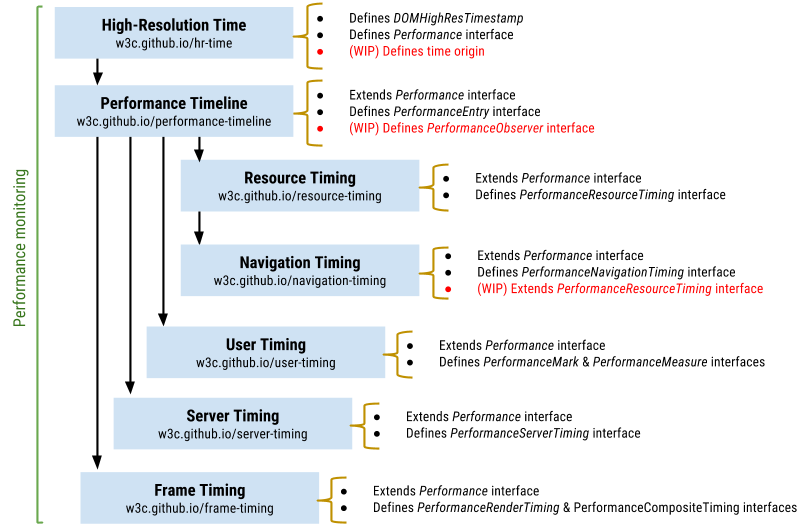
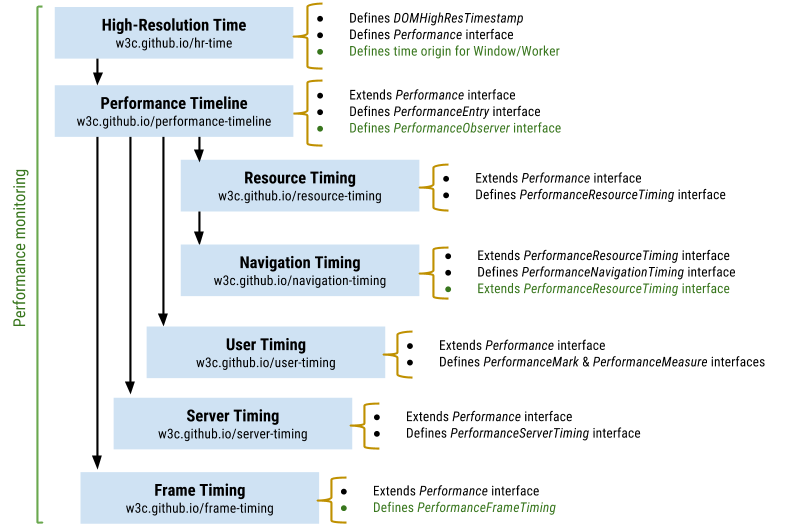
Addressed feedback from the TPAC f2f meeting

diff --git a/index.html b/index.html
@@ -9,11 +9,12 @@
           shortName:  "perf-timing-primer",
           editors: [
             {
-              name:       "A list of contributors in GitHub",
-              url:        "https://github.com/w3c/somerepo"
+              name:       "Xiaoqian Wu",
+              mailto:      "xiaoqian@w3.org",
+              company:    "W3C"
             }
           ],
-          edDraftURI:   "TBD",
+          edDraftURI:   "http://siusin.github.io/perf-timing-primer/",
           wg:           "Web Performance Working Group",
           wgURI:        "http://www.w3.org/2010/webperf/",
           wgPublicList: "public-web-perf",
@@ -26,33 +27,61 @@
 
     <section id='abstract'>
       <p>
-        This document describes the basic concepts of a various set of Web Performance Timeline related specifications, including [[PERFORMANCE-TIMELINE-2]], [[HR-TIME-2]], [[NAVIGATION-TIMING-2]], [[RESOURCE-TIMING]], [[USER-TIMING]], [[SERVER-TIMING]], and provide a clear idea how these APIs fit together.
+        This document introduces the basic concepts of various Web performance timing specifications, including [[PERFORMANCE-TIMELINE-2]], [[HR-TIME-2]], [[NAVIGATION-TIMING-2]], [[RESOURCE-TIMING]], [[USER-TIMING]], [[FRAME-TIMING]], [[SERVER-TIMING]], and explains how these APIs fit together.
       </p>
     </section>
 
     <section id='sotd'>
       <p>
-        This document is a collaboration of the <a href="http://www.w3.org/2010/webperf/">W3C Web Performance Working Group</a>. Most use cases in this document are originated from the working group's past discussion <a href="https://lists.w3.org/Archives/Public/public-web-perf/">achieved</a> in their mailing list.
+        This document is a collaboration of the <a href="http://www.w3.org/2010/webperf/">W3C Web Performance Working Group</a>. Most use cases in this document are originated from the working group's past discussion, which was <a href="https://lists.w3.org/Archives/Public/public-web-perf/">achieved</a> in the group's mailing list <a href="mailto:public-web-perf-request@w3.org?subject=subscribe">public-web-perf@w3.org</a> and <a href="http://www.w3.org/2010/webperf/">GitHub Repos</a>.
       </p>
     </section>
 
     <section>
       <h2>Overview</h2>
       <p>
-        Image you're visiting the W3C website, if the web content doesn't show up in the screeen within a certain seconds, as users, you might just close the tab and head to alternatives, but as developers, you might wish to trace the hints in the requests and timing details so that you can find out what's slowing down the webpage.
-        </p>
-        <p>
-        Luckily, most browser vendors are willing to expose these performance characteristics via a set of performance APIs. With these convenient features, developers can better identify the bottlenecks of the web applications and serve the faster web applications.
+        Image you're visiting the W3C website, if the web content doesn't show up in the screeen within certain seconds, as users, you may just close the tab and head to alternatives, but as developers, you will hope to trace the hints in the requests and navigation details, so that you can find out what's slowing down your webpage.
       </p>
-      <figure id="fig1">
-        <img alt="network data for w3.org" src="./images/w3-org-network-timing.png" class="graph" style="width: 70%">
-        <figcaption><span class="fig-title">A Waterfall Chart for w3.org</span></figcaption>
+      <p>
+        Fortunately, most browser vendors are willing to expose performance characteristics for developers to collect accurate  performance details. These performance timing APIs, as you can see from their names, are very helpful to identify the bottlenecks of the web applications from different aspects and improve the performance.
+      </p>
+      <figure style="margin:10px 0" id="fig1">
+        <div id="waterfall-div" style="border: 2px solid rgb(0, 0, 0); position: relative; top: 0px; left: 0px; z-index: 99999; margin: 0px; padding: 0px; background: rgb(255, 255, 255); width: 1180px">
+        <svg viewBox="1180 72" width="1180" height="72"><text x="100" y="0" dx="0" dy="10" style="font: 10px sans-serif;" text-anchor="middle">0</text><line x1="100" y1="12" x2="100" y2="72" style="stroke: #ccc;"></line><text x="614.2556448524249" y="0" dx="0" dy="10" style="font: 10px sans-serif;" text-anchor="middle">1</text><line x1="614.2556448524249" y1="12" x2="614.2556448524249" y2="72" style="stroke: #ccc;"></line><text x="1128.5112897048498" y="0" dx="0" dy="10" style="font: 10px sans-serif;" text-anchor="middle">2</text><line x1="1128.5112897048498" y1="12" x2="1128.5112897048498" y2="72" style="stroke: #ccc;"></line><g transform="translate(0,12)"><text x="5" y="0" dx="0" dy="10" style="font: 10px sans-serif;" text-anchor="start">/TR/resource-timing/</text><g transform="translate(200, 0)"><title>{
+          "duration": "869.0",
+          "tcpDuration": "441.0",
+          "requestDuration": "423.0",
+          "responseDuration": "3.0"
+        }</title>
+        <rect x="-100" y="0" width="446.88815537675725" height="10" style="fill:rgb(204, 204, 204)"></rect><rect x="1.0285112897048498" y="0" width="226.7867393799194" height="10" style="fill:rgb(255, 157, 66)"></rect><rect x="227.81525066962425" y="0" width="217.53013777257573" height="10" style="fill:rgb(64, 255, 64)"></rect>
+        <rect x="345.3453884422" y="0" width="1.5427669345572748" height="10" style="fill:rgb(52, 150, 255)"></rect></g></g><g transform="translate(0,24)"><text x="5" y="0" dx="0" dy="10" style="font: 10px sans-serif;" text-anchor="start">/StyleSheets/TR/W3C-WD</text><g transform="translate(200, 0)"><title>{
+          "start": "886.2",
+          "duration": "801.5"
+        }</title>
+        <rect x="355.7498086473669" y="0" width="412.1645857256619" height="10" style="fill:rgb(204, 204, 204)"></rect></g></g><g transform="translate(0,36)"><text x="5" y="0" dx="0" dy="10" style="font: 10px sans-serif;" text-anchor="start">/Icons/w3c_home</text><g transform="translate(200, 0)"><title>{
+          "start": "893.9",
+          "duration": "796.6"
+        }</title>
+        <rect x="359.6936351870787" y="0" width="409.680730962034" height="10" style="fill:rgb(204, 204, 204)"></rect></g></g><g transform="translate(0,48)"><text x="5" y="0" dx="0" dy="10" style="font: 10px sans-serif;" text-anchor="start">/TR/reso ... view-1.png</text><g transform="translate(200, 0)"><title>{
+          "start": "899.4",
+          "duration": "1189.1",
+          "requestDuration": "396.2",
+          "responseDuration": "1.0"
+        }</title>
+        <rect x="362.5338691135019" y="0" width="611.4875023923129" height="10" style="fill:rgb(204, 204, 204)"></rect><rect x="769.7544010720962" y="0" width="203.75888585671794" height="10" style="fill:rgb(64, 255, 64)"></rect><rect x="973.513286928814" y="0" width="0.5080845770006875" height="10" style="fill:rgb(52, 150, 255)"></rect></g></g><g transform="translate(0,60)"><text x="5" y="0" dx="0" dy="10" style="font: 10px sans-serif;" text-anchor="start">/StyleS ... TR/logo-WD</text><g transform="translate(200, 0)"><title>{
+          "start": "1695.6",
+          "duration": "394.8"
+        }</title>
+        <rect x="871.9621005544924" y="0" width="203.03789944550752" height="10" style="fill:rgb(204, 204, 204)"></rect></g></g></svg>
+      </div>
+        <figcaption style="margin: 10px auto"><span class="fig-title">A Waterfall Chart generated with <a href="https://github.com/andydavies/waterfall">Page Load Waterfalls</a>, which is using the Resource Timing API</span></figcaption>
       </figure>
+      <p>Waterfall charts may be the first tool you'll think of when trying to understand the performace of your web applications. Have you ever wonder about the magic behind these graphic charts? In the following sections, we are going to explain a set of performance monitoring APIs that allow you to do more than a waterfall chart measurement.</p>
     </section>
 
     <section>
       <h2>Resource Timing</h2>
-      <p><a href="#fig1">Fig.1</a> uses a waterfall chart to illustrate the detailed network timing data for each loaded resource, with the <a href="http://www.w3.org/TR/resource-timing">Resource Timing API</a>.</p>
+      <p><a href="#fig1">Fig.1</a> is a waterfall chart for the timing data for each loaded resource of a simple webpage. Actually, the [[Resource Timing]] API</a> can provide much more detail information than this. <a href="#fig2">Fig.2</a> is a set of <a href="https://w3c.github.io/resource-timing/#attributes">attributes</a> that developers are able to access for each loaded resource on their Web applications.</p>
       <figure id="fig2">
       <img style="width:85%" src="./images/resource-timing-overview-1.png" alt="Resource Timing attributes">
       <figcaption><span class="fig-title">Resource Timing attributes</span></figcaption>
@@ -60,27 +89,14 @@
 
       <section>
         <h2>Load Times for Resources</h2>
-        <p>Web Applications are mostly consist by a set of downloadable resources. By resource, we usually mean the HTML elements, the XHR objects, and link with the link type of stylesheet or SVG elements.</p>
+        <p>Web Applications are mostly consist by a set of downloadable resources. By resource, we usually mean the HTML elements, the XHR objects, and link with the link type of stylesheet (i.e. CSS) or SVG elements.</p>
         <p>The Resources timing data are exposed as methods on the global <code>window.performance</code> object we are going to talk about in the next section. You're encourage to use <code>performance.getEntriesByType("resource")</code> method to obtain an array of Resource Timing Objects for each requested resource.</p>
       <figure id="fig3">
         <img style="width:30%" src="./images/resource-timing-detail-w3-org.png" alt="Demo of Resource Timing Details">
         <figcaption><span class="fig-title">Demo of Resource Timing Details</span></figcaption>
       </figure>
       <p>Here, the <code>PerformanceResourceTiming</code> interface extends the <code>PerformanceEntry</code> interface in the <a href="#performance-timeline">Performance Timeline</a>. The duration attribute in Resource Timing can by measured as the difference between responseEnd and startTime.</p>
-      <p>As indicated in <a href="#fig2">Fig.2</a> and <a href="#fig3">Fig.3</a>, you are able to access a set of critical network timing information for each resource on the page: 
-      <dl>
-        <dt><code><a href="http://www.w3.org/TR/resource-timing/#widl-PerformanceResourceTiming-workerStart">workerStart</a></code></dt><dd>If the current browsing or worker context's have an active worker, or if the worker is available.</dd>
-        <dt><code><a href="http://www.w3.org/TR/#widl-PerformanceResourceTiming-redirectStart">redirectStart</a></code> / <code><a href="http://www.w3.org/TR/resource-timing/#widl-PerformanceResourceTiming-redirectEnd">redirectEnd</a></code></dt><dd>If there are HTTP redirects or equivalent when fetching the resource and if all the redirects or equivalent are from the same origin as the current document.</dd>
-        <dt><code><a href="http://www.w3.org/TR//resource-timing/#widl-PerformanceResourceTiming-fetchStart">fetchStart</a></code></dt><dd>If there are no HTTP redirects or equivalent.</dd>
-        <dt><code><a href="http://www.w3.org/TR/resource-timing/#widl-PerformanceResourceTiming-domainLookupStart">domainLookupStart</a></code> / <code><a href="http://www.w3.org/TR/resource-timing/#widl-PerformanceResourceTiming-domainLookupEnd">domainLookupEnd</a></code></dt>
-        <dd>The time before / immediately after the user agent finishes the domain name lookup for the resource.</dd>
-        <dt><code><a href="http://www.w3.org/TR/resource-timing/#widl-PerformanceResourceTiming-connectStart">connectStart</a></code> / <code><a href="http://www.w3.org/TR/resource-timing/#widl-PerformanceResourceTiming-connectEnd">connectEnd</a></code></dt>
-        <dd>The time immediately before the user agent starts / finishes establishing the connection to the server to retrieve the resource.</dd>
-        <dt><code><a href="http://www.w3.org/TR/resource-timing/#widl-PerformanceResourceTiming-secureConnectionStart">secureConnectionStart</a></code></dt><dd></dd>
-        <dt><code><a href="http://www.w3.org/TR/resource-timing/#widl-PerformanceResourceTiming-requestStart">requestStart</a></code></dt>
-        <dd>The time immediately before the user agent starts requesting the resource from the server, or from relevant application caches or from local resources.</dd>
-        <dt><code><a href="http://www.w3.org/TR/resource-timing/#widl-PerformanceResourceTiming-responseStart">responseStart</a></code> / <code><a href="http://www.w3.org/TR/resource-timing/#widl-PerformanceResourceTiming-responseEnd">responseEnd</a></code></dt><dd></dd>
-      </dl>
+      <p>As indicated in <a href="#fig2">Fig.2</a> and <a href="#fig3">Fig.3</a>, you are able to access a set of critical network timing <a href="https://w3c.github.io/resource-timing/#attributes">attributes</a> for each resource on the page.
       </p>
       <p>Each of these time stamp is in microseconds, as defined by the <code>window.performance.now()</code> method in the<a href="http://www.w3.org/TR/hr-time/#sec-high-resolution-time">High ResolutionTime specification</a>.</p>
       </section>
@@ -117,55 +133,28 @@
   </span><span class="tag">&lt;/body&gt;</span><span class="pln">
 </span><span class="tag">&lt;/html&gt;</span></pre>
       </section>
+
+      <section>
+        <h3>Browser Support</h3>
+        <p>So far, the [[Resource Timing]] API has been widely impletemated. <a href="#fig4">Fig.4</a> illustrates the current support data on the major desktop and mobile web browsers, please also visit the source on <a href="http://caniuse.com/#feat=resource-timing">caniuse.com</a> for the latest status.
+        <figure id="fig4">
+      <img style="width:85%" src="./images/can-i-use-resource-timing.png" alt="Can I use Resource Timing">
+      <figcaption><span class="fig-title">Can I use Resource Timing API?</span></figcaption>
+      </figure>
+      </section>
     </section>
 
     <section>
       <h2>Performance Timeline</h2>
       <section>
         <h3>Overview</h3>
-        <p>As Navigation Timing, Resource Timing, and User Timing were gradually taking shape, the group decided to unified interface for these various timing specification that were basically doing the same thing with their own separate interfaces.
-        </p>
-        <p>This specification defines the necessary Performance Timeline primitives that enable web developers to access, instrument, and retrieve various performance metrics from the full lifecycle of a web application.</p>
+        <p>You may already start thinking about if the timing data of the resources on the webpages is enough to measure its performance. Yeah, to understand your web application, it's always necessary to explore more: page nagivation, user interaction, request-response cycle, and so on. Based on this need, the group introduces Performance Timeline, which is a unified interface to obtain various performance metrics.
         <p>
-        A developer can obtain performance metrics related to the navigation of the document, resources on the page, and developer scripts via the the Performance Timeline:
-        </p>
-
-        <pre class="highlight example prettyprint prettyprinted" style="">
-        <span class="dec">&lt;!doctype html&gt;</span><span class="pln">
-</span><span class="tag">&lt;html&gt;</span><span class="pln">
-</span><span class="tag">&lt;head&gt;</span><span class="pln">
-</span><span class="tag">&lt;/head&gt;</span><span class="pln">
-</span><span class="tag">&lt;body</span><span class="pln"> </span><span class="atn">onload</span><span class="pun">=</span><span class="atv">"</span><span class="pln">init</span><span class="pun">()</span><span class="atv">"</span><span class="tag">&gt;</span><span class="pln">
-</span><span class="tag">&lt;img</span><span class="pln"> </span><span class="atn">id</span><span class="pun">=</span><span class="atv">"image0"</span><span class="pln"> </span><span class="atn">src</span><span class="pun">=</span><span class="atv">"http://www.w3.org/Icons/w3c_main.png"</span><span class="pln"> </span><span class="tag">/&gt;</span><span class="pln">
-</span><span class="tag">&lt;script&gt;</span><span class="pln">
-   </span><span class="kwd">function</span><span class="pln"> init</span><span class="pun">()</span><span class="pln">
-   </span><span class="pun">{</span><span class="pln">
-        performance</span><span class="pun">.</span><span class="pln">mark</span><span class="pun">(</span><span class="str">"startWork"</span><span class="pun">);</span><span class="pln"> </span><span class="com">// see [[User Timing]]</span><span class="pln">
-        doWork</span><span class="pun">();</span><span class="pln"> </span><span class="com">// Some developer code</span><span class="pln">
-        performance</span><span class="pun">.</span><span class="pln">mark</span><span class="pun">(</span><span class="str">"endWork"</span><span class="pun">);</span><span class="pln">
-
-        measurePerf</span><span class="pun">();</span><span class="pln">
-   </span><span class="pun">}</span><span class="pln">
-
-   </span><span class="kwd">function</span><span class="pln"> measurePerf</span><span class="pun">()</span><span class="pln">
-   </span><span class="pun">{</span><span class="pln">
-       </span><span class="kwd">var</span><span class="pln"> perfEntries </span><span class="pun">=</span><span class="pln"> performance</span><span class="pun">.</span><span class="pln">getEntries</span><span class="pun">();</span><span class="pln">
-       </span><span class="kwd">for</span><span class="pln"> </span><span class="pun">(</span><span class="kwd">var</span><span class="pln"> i </span><span class="pun">=</span><span class="pln"> </span><span class="lit">0</span><span class="pun">;</span><span class="pln"> i </span><span class="pun">&lt;</span><span class="pln"> perfEntries</span><span class="pun">.</span><span class="pln">length</span><span class="pun">;</span><span class="pln"> i</span><span class="pun">++)</span><span class="pln">
-       </span><span class="pun">{</span><span class="pln">
-             </span><span class="kwd">if</span><span class="pln"> </span><span class="pun">(</span><span class="pln">window</span><span class="pun">.</span><span class="pln">console</span><span class="pun">)</span><span class="pln"> console</span><span class="pun">.</span><span class="pln">log</span><span class="pun">(</span><span class="str">"Name: "</span><span class="pln">        </span><span class="pun">+</span><span class="pln"> perfEntries</span><span class="pun">[</span><span class="pln">i</span><span class="pun">].</span><span class="pln">name      </span><span class="pun">+</span><span class="pln">
-                                             </span><span class="str">" Entry Type: "</span><span class="pln"> </span><span class="pun">+</span><span class="pln"> perfEntries</span><span class="pun">[</span><span class="pln">i</span><span class="pun">].</span><span class="pln">entryType </span><span class="pun">+</span><span class="pln">
-                                             </span><span class="str">" Start Time: "</span><span class="pln"> </span><span class="pun">+</span><span class="pln"> perfEntries</span><span class="pun">[</span><span class="pln">i</span><span class="pun">].</span><span class="pln">startTime </span><span class="pun">+</span><span class="pln">
-                                             </span><span class="str">" Duration: "</span><span class="pln">   </span><span class="pun">+</span><span class="pln"> perfEntries</span><span class="pun">[</span><span class="pln">i</span><span class="pun">].</span><span class="pln">duration  </span><span class="pun">+</span><span class="pln"> </span><span class="str">"\n"</span><span class="pun">);</span><span class="pln">
-       </span><span class="pun">}</span><span class="pln">
-   </span><span class="pun">}</span><span class="pln">
-</span><span class="tag">&lt;/script&gt;</span><span class="pln">
-</span><span class="tag">&lt;/body&gt;</span><span class="pln">
-</span><span class="tag">&lt;/html&gt;</span></pre>
-          </section>
-          <section>
-            <h3>EntryType</h3>
-            <p>The Performance TimeLine introduces PerformanceEntry.entryType to describes the type of the interface represented by this PerformanceEntry object, which represents performance measurements.</p>
-            <pre class='example highlight'>
+      </section>
+      <section>
+        <h3>EntryType</h3>
+        <p>The Performance Timeline API uses <code>PerformanceEntry.entryType</code> to describe the type of the interface represented by this PerformanceEntry object, which represents performance measurements.</p>
+        <pre class='example highlight'>
  var entryType = performance.getEntries()[0].entryType
 // Entry Type
       </pre>
@@ -194,30 +183,6 @@
           <tr><td>"server"</td><td>PerformanceServerTiming</td><td><a rel="nofollow" class="external text" href="http://w3c.github.io/server-timing/">Server Timing</a></td><td>work in progress</td></tr>
         </tbody></table>
       </section>
-      <section>
-        <h3>Observer</h3>
-        <p>Resource and user timings has been useful by provide performance data, but in some occations it's tricky to make use of this data if there's no notification when new performance entries have been recorded.</p>
-        <p>In Performace Timeline Level 2, the <code>PerformanceObserver interface</code> is introduced to allow subscribing to / observing new performance events delivered into the Performance Timeline.</p>
-        <p>Here's an <a href="http://output.jsbin.com/xodibo/latest/quiet">early example</a> of Performance Observer:</p>
-        <pre class='example highlight'>    
-          var observer = new PerformanceObserver(function(list) {      
-            list.getEntries().map(entry =&gt; {
-              var pre = document.createElement('pre')
-              pre.innerText = JSON.stringify(obj(entry), null, '\t');
-              document.getElementById('observe').appendChild(pre);
-            })
-          });
-            
-          // Register for User and Resource Timing events
-          observer.observe({entryTypes: ['resource', 'mark', 'measure']});
-          performance.mark('registered-observer');
-          
-          // Log document state changes to performance timeline
-          document.onreadystatechange = function () {
-            performance.mark("dom-"+document.readyState);
-          }          
-        </pre>
-      </section>
     </section>
 
     <section>
@@ -225,7 +190,7 @@
 
       <section>
         <h2>Introduction</h2>
-        <p>High Resolution Time (L2) spec defines an API that provides the current time in sub-millisecond resolution and such that it is not subject to system clock skew or adjustments.</p>
+        <p>All the metrics that participate in the Performance Timeline are able to provides timing data in sub-millisecond resolution, i.e. in DOMHighResTimeStamp, which is defined by the High Resolution Time (L2) spec.</p>
       </section>
 
       <section>
@@ -252,7 +217,7 @@ if (window.console) window.console.log('Duration of task: ' + (Date.now() - mark
       <section>
         <h2>Sub-millisecond Resolution</h2>
         <p>
-          <code>Date.now()</code> [[ECMA-262]] is genuinely useful in determining the current value of the calendar time and has a long history of usage. However, looking longer term, there's a need for more precision.</p>
+          <code>Date.now()</code> is genuinely useful in determining the current value of the calendar time and has a long history of usage. However, looking longer term, there's a need for more precision.</p>
         <p>
           One example is graphics. When calculating the frame rate of a script based animation, developers will need sub-millisecond resolution in order to determine if an animation is drawing at 60 FPS. Without sub-millisecond resolution, a developer can only determine if an animation is drawing at 58.8 FPS or 62.5 FPS.
         </p>
@@ -341,18 +306,33 @@ worker</span><span class="pun">.</span><span class="pln">port</span><span class=
         <h2>Navigation Timing</h2>
         <p>Now that we know how to get timing metrics for individual resources, let's go a step further to access the complete timing information for navigation of a document.</p>
         <section>
-          <h3>Navigation Timing and Resource Timing</h3>
-          <p>Navigation is about how the user agents convert the requested HTML, CSS, and JavaScript into rendered pixels, which is one of the most critical steps for users to navigate a document. Navigation Timing API is the start point of the Web Performance APIs, so when the Performance Timeline APIs was created in 2011, the original design of Navigation Timing has been widely implemented and too late to align it with the Performance Timeline.</p>
-          <p>In [[NAVIGATION-TIMING]], by accessing <code>window.performance.navigation</code>, you will get an instance of <code><a href="http://www.w3.org/TR/navigation-timing/#sec-navigation-timing">PerformanceNavigationTiming</a></code> which provides timing-related information about the page’s performance. This doesn't fit in the goal to offer a unified entry by <code>performance.getEntries.</code></p>
-          <p>Now that we got the opportunity to fix this historical bug in Level 2. The ideal design for Navigation Timing is to participate in the Performance Timeline API. Also, it extends <code>initiatorType</code> and <code>workerStart</code> from the <code>PerformanceResourceTiming</code> interface.
+          <h3>Navigation Timing, Performance Timeline and Resource Timing</h3>
+          <p>Navigation is about how the user agents convert the requested HTML, CSS, and JavaScript into rendered pixels, which is one of the most critical steps for users to navigate a document.</p>
+          <p>Navigation Timing API is the start point of the Web Performance APIs. In [[NAVIGATION-TIMING]], by accessing <code>window.performance.navigation</code>, you will get an instance of <code><a href="http://www.w3.org/TR/navigation-timing/#sec-navigation-timing">PerformanceNavigationTiming</a></code> which provides timing-related information about the page’s performance. This doesn't fit in the goal to offer a unified entry by <code>performance.getEntries.</code> By the time Performance Timeline APIs was introduced in 2011, the initial design of Navigation Timing has been widely implemented so it was too late to align it with the Performance Timeline.</p>
+          <p>Navigation Timing API Level 2, is aimed to fix this historical bug. It defines an ideal design for Navigation Timing, which participates in the Performance Timeline API, and extends <code>initiatorType</code> and <code>workerStart</code> from the <code>PerformanceResourceTiming</code> interface.
         </section>
         <section>
           <h3>The PerformanceNavigationTiming attributes</h3>
-          <figure id="fig4">
+          <p><a href="#fig5">Fig.5</a> displays a list of critical performance characteristics of navigation a page defined in [[navigation-timing-2]].</p>
+          <figure id="fig5">
           <img style="width:60%" src="./images/navigation-timing-attributes.png" alt="Navigation Timing Attrs">
           <figcaption><span class="fig-title">Navigation Timing Attrbutes</span></figcaption>
           </figure>
+          <p>Below is a demo of navigating the <a href="http://www.w3.org/">www.w3.org</a> webpage.</p>
+          <figure id="fig6">
+          <img style="width:80%" src="./images/nav-timing-w3.org.png" alt="Navigation Timing of w3.org">
+          <figcaption><span class="fig-title">a demo of Navigation Timing Attrbutes, generated with <a href="https://github.com/addyosmani/timing.js/">timing.js</a>.</span></figcaption>
+          </figure>
           </section>
+
+          <section>
+        <h3>Browser Support</h3>
+        <p><a href="#fig7">Fig.7</a> is the support data table for [[NAVIGATION-TIMING]], generated by <a href="http://caniuse.com/#feat=nav-timing">caniuse.com</a>. If you are cursious about the status of the latest Navigation Timing design in Level 2, the Web Performance WG has provided a <a href="http://www.w3.org/2015/10/webperf-all.html">detail report</a>(by October 21, 2015) for the latest features in its deliverables.</p>
+        <figure id="fig7">
+      <img style="width:85%" src="./images/can-i-use-nav-timing.png" alt="Can I use Navigation Timing">
+      <figcaption><span class="fig-title">Can I use Navigation Timing API?</span></figcaption>
+      </figure>
+      </section>
         </section>
 
       <section>
@@ -414,6 +394,15 @@ worker</span><span class="pun">.</span><span class="pln">port</span><span class=
           <p>Similar to the <code>PerformanceMark</code> interface, you can get measures by simply calling <code>window.performance.getEntriesByType('measure')</code>, and use <code>clearMeasures()</code> method to delete measures.
           </p>
         </section>
+
+        <section>
+        <h3>Browser Support</h3>
+        <p>Nowadays, you are able to use User Timing API on most of the major browsers. Please visit <a href="http://caniuse.com/#feat=user-timing">caniuse.com</a> for the latest browser support information. </p>
+        <figure id="fig8">
+      <img style="width:85%" src="./images/can-i-use-user-timing.png" alt="Can I use User Timing">
+      <figcaption><span class="fig-title">Can I use User Timing API?</span></figcaption>
+      </figure>
+      </section>
       </section>
 
       <section>
@@ -421,16 +410,33 @@ worker</span><span class="pun">.</span><span class="pln">port</span><span class=
         <section>
           <h3>Current Plan</h3>
           <p>
-          Most of these Web Performance Timing APIs are still work in process, <a href="#fig5">Fig.5</a> is a the dependency graph that can explain our current plan of the Performance monitoring specs.
+          Most of the above Web Performance Timing APIs are still work in process. <a href="#fig9">Fig.9</a> is a the dependency graph that can explain our current plan of all the Performance monitoring specs.
           </p>
-          <figure id="fig5">
+          <figure id="fig9">
           <img style="width:85%" src="./images/W3C-WebPerf-deps-graph.png" alt="Performance monitoring APIs Deps Graph">
-          <figcaption><span class="fig-title">Web Performance Timing APIs Dependency Graph</span></figcaption>
+          <figcaption><span class="fig-title">Web Performance Timing APIs <a href="https://docs.google.com/document/d/1ZKW9N0cteHgK91SyYQONFuy2ZW6J4Oak398niTo232E/">Dependency Graphn</a>, by Ilya Grigorik.</span></figcaption>
           </figure>
         </section>
         <section>
-        <h3>Browser Support</h3>
-        <p>Most of the Performance Timing APIs above have been landed in the <a href="http://caniuse.com/#search=timing">major browsers</a>. The Web Performance WG also provide a <a href="http://www.w3.org/2015/10/webperf-all.html">detail report</a>(by October 21, 2015) for the latest features in its deliverables.
+        <h3>The Full Potential of Web Proformance Monitoring</h3>
+        <p>As you may guess from <a href="#fig9">this roadmap</a>, in the future, we will continue explore those potential performance areas where developers would like to know more.</p>
+        <section>
+          <h4>Server Timing</h4>
+          <p>[[SERVER-TIMING]] is an attampt to address the concern about lacking insight into how or why certain stages of the request-response cycle have taken as much time as they have - e.g. how the request was routed, where the time was spent on the server, and so on. This API defines a mechanism enables the server to communicate performance metrics about the request-response cycle to the user agent, and a JavaScript interface to enable applications to collect, process, and act on these metrics to optimize application delivery. </p>
+          <p>Being designed for the communication from server to the client, server Timing constitutes of two parts: a definition of the <code>Server-Timing</code> header field and a <code>PerformanceServerTiming</code> interface which participates in the [[PERFORMANCE-TIMELINE-2]]. More details and use cases can be found in the spec([[SERVER-TIMING]]).</p>
+        </section>
+        <section>
+          <h4>Frame Timing</h4>
+          <p></p>
+          <p>The idea of a "frame" comes from the event loop of browser processing model. To provide an interactive user experience, the browser processing model runs a continuous event loop at a certain update frequency - e.g. 60Hz refresh rate. If all of the work within each execution of the event loop (i.e. within a "frame") is completed in allotted time budget (e.g. 16.6ms for 60Hz refresh rate), the smoothness will come up to the user's expection. Otherwise, one or more frames is skipped, resulting in inconsistent response, processing, and rendering times, which hurts the user experience. </p>
+          <p>The Frame Timing API is very helpful to developers who wants to deliver a smooth and responsive user experience. It an interface for web applications to access runtime performance information of the browser event loop, enabling them to identify and fix issues that cause delayed rendering, processing of input, and other critical work necessary to deliver a smooth and responsive user experience. </p>
+          <p>This API also participates in the [[PERFORMANCE-TIMELINE-2]], with a <code>entryType</code> value as "<code>frame</code>".</p>
+        </section>
+        <section>
+          <h4>Observer</h4>
+          <p>Resource and user timings has been useful by provide performance data, but in some occations it's tricky to make use of this data if there's no notification when new performance entries have been recorded.</p>
+          <p>In <a href="http://www.w3.org/TR/performance-timeline-2/#the-performanceobserver-interface">Performace Timeline Level 2</a>, the <code>PerformanceObserver interface</code> tries to solve this problem by allowing subscribing to / observing new performance events delivered into the Performance Timeline.</p>
+        </section>
       </section>
       </section>
     </section>
